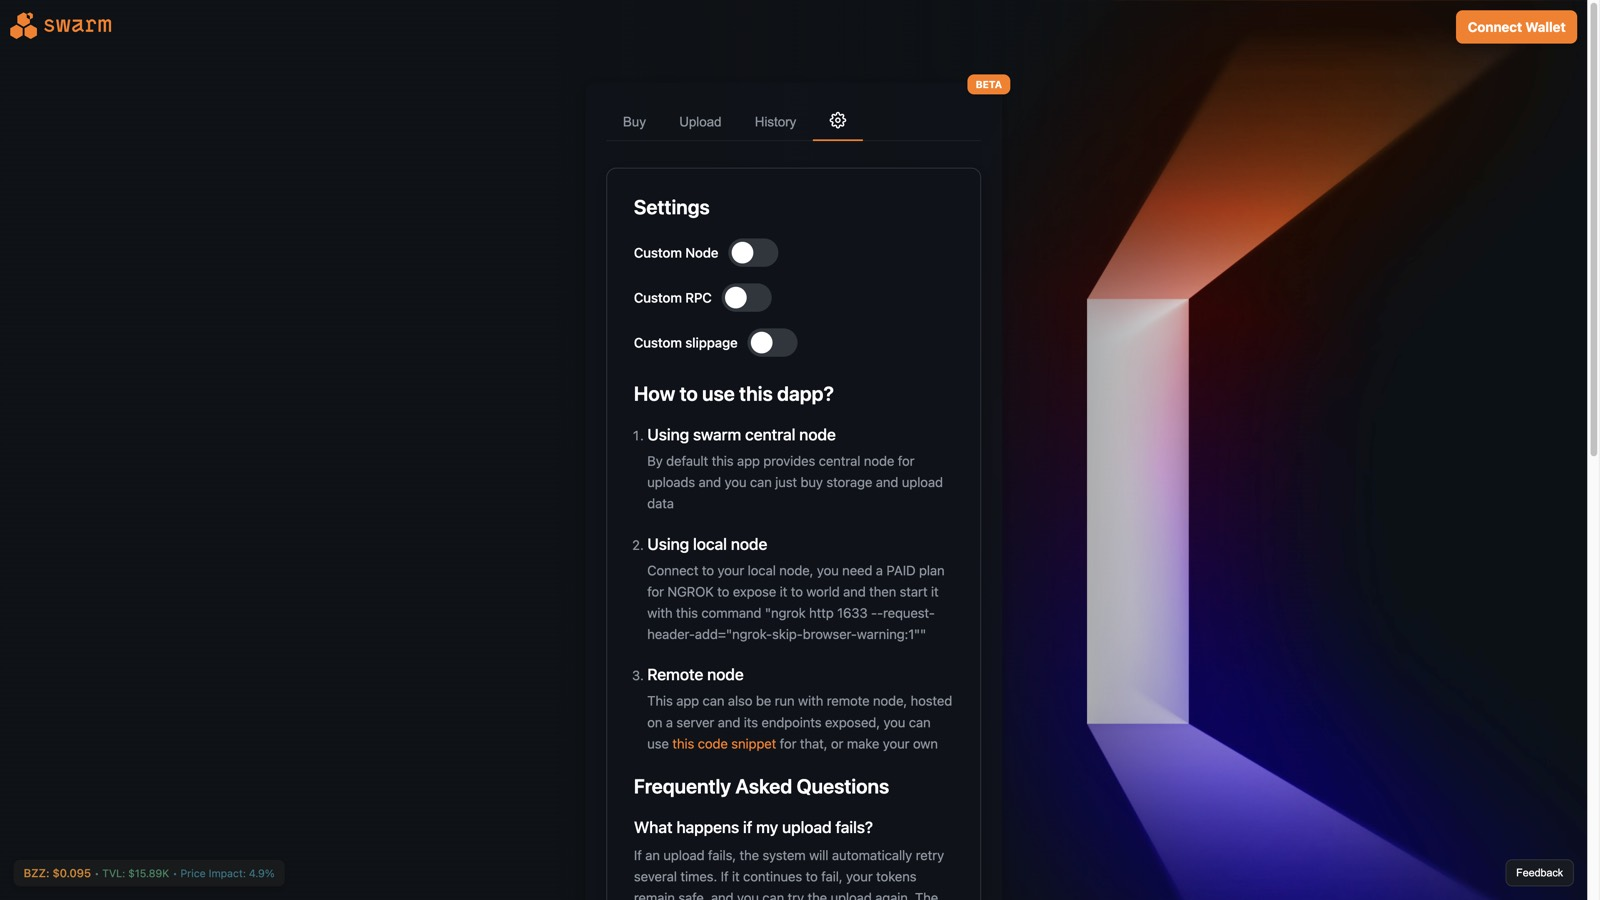
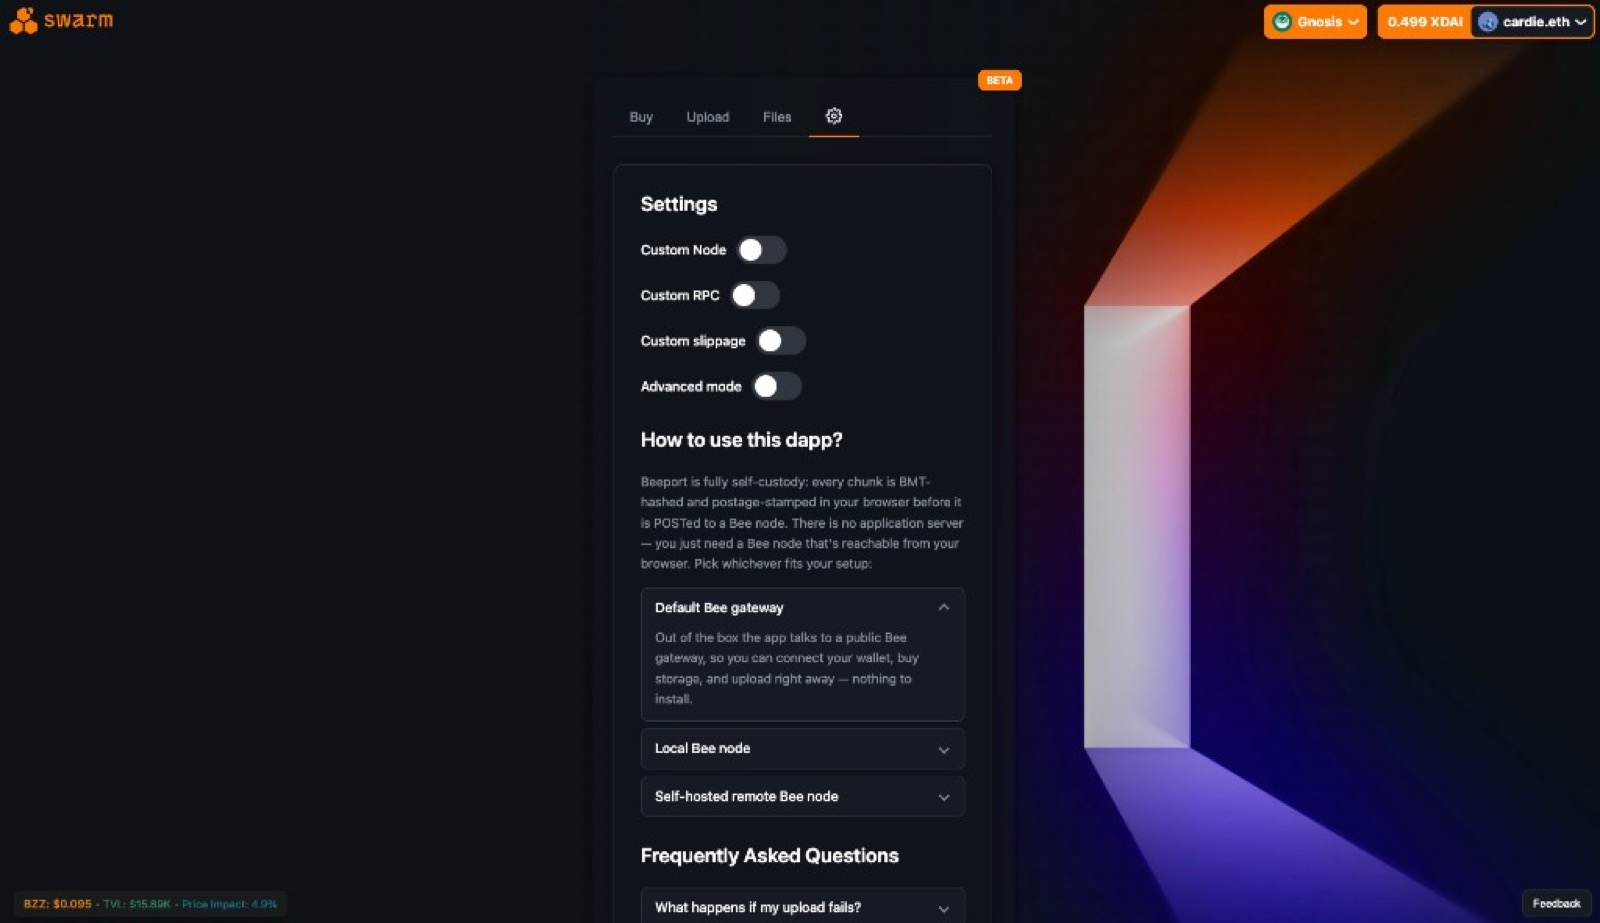
Replace the weak Beeport, King Trivia, and 1337 shots, and add cart and category pages for Lelo and Foreo.

diff --git a/index.html b/index.html
@@ -44,14 +44,14 @@
           <div class="thumbs">
             <button class="thumb" type="button" aria-pressed="true" aria-label="Buy" data-src="assets/beeport-buy.jpg" data-alt="Beeport buy form with chain, token, storage size, and duration" data-cap="Buy"><img src="assets/beeport-buy.jpg" alt="" /></button>
             <button class="thumb" type="button" aria-pressed="false" aria-label="Duration" data-src="assets/beeport-duration.jpg" data-alt="Beeport storage duration options" data-cap="Duration"><img src="assets/beeport-duration.jpg" alt="" /></button>
-            <button class="thumb" type="button" aria-pressed="false" aria-label="Upload" data-src="assets/beeport-upload.jpg" data-alt="Beeport upload tab, your storage" data-cap="Upload"><img src="assets/beeport-upload.jpg" alt="" /></button>
-            <button class="thumb" type="button" aria-pressed="false" aria-label="Settings" data-src="assets/beeport-settings.jpg" data-alt="Beeport settings and how to use the app" data-cap="Settings"><img src="assets/beeport-settings.jpg" alt="" /></button>
-            <button class="thumb" type="button" aria-pressed="false" aria-label="Node" data-src="assets/beeport-node.jpg" data-alt="Beeport custom Bee node URL" data-cap="Node"><img src="assets/beeport-node.jpg" alt="" /></button>
+            <button class="thumb" type="button" aria-pressed="false" aria-label="Storage" data-src="assets/beeport-storage.jpg" data-alt="Beeport self-custody storage with postage stamps and top up" data-cap="Storage"><img src="assets/beeport-storage.jpg" alt="" /></button>
+            <button class="thumb" type="button" aria-pressed="false" aria-label="Files" data-src="assets/beeport-files.jpg" data-alt="Beeport file list with type filters" data-cap="Files"><img src="assets/beeport-files.jpg" alt="" /></button>
+            <button class="thumb" type="button" aria-pressed="false" aria-label="Settings" data-src="assets/beeport-settings.jpg" data-alt="Beeport settings for a custom node, RPC, and Bee gateway" data-cap="Settings"><img src="assets/beeport-settings.jpg" alt="" /></button>
           </div>
         </div>
         <div class="copy">
           <h1>Beeport</h1>
-          <p>A site for buying Swarm storage and uploading files or a website, without running a node. It has a buy form with chain, size, and duration, an upload list, upload history, and a setting for your own Bee node.</p>
+          <p>A site for buying Swarm storage and uploading files. It has a buy form with chain, size, and duration, postage stamps you upload against, a file list, and settings for the Bee gateway, a custom node, and RPC.</p>
           <ul class="facts">
             <li>Next.js</li><li>React</li><li>TypeScript</li><li>RainbowKit</li><li>viem</li>
           </ul>
@@ -93,26 +93,27 @@
         <div class="gallery" data-switcher>
           <figure class="stage">
             <button type="button" data-lightbox aria-label="Enlarge screenshot">
-              <img src="assets/1337-assets.jpg" alt="1337 Wallet assets, chain, and RPC" />
+              <img src="assets/1337-store-2.jpg" alt="1337 Wallet assets screen" />
             </button>
             <figcaption>Assets</figcaption>
           </figure>
           <div class="thumbs">
-            <button class="thumb" type="button" aria-pressed="true" aria-label="Assets" data-src="assets/1337-assets.jpg" data-alt="1337 Wallet assets, chain, and RPC" data-cap="Assets"><img src="assets/1337-assets.jpg" alt="" /></button>
-            <button class="thumb" type="button" aria-pressed="false" aria-label="Confirm" data-src="assets/1337-confirm.jpg" data-alt="1337 confirm screen with a decoded call and a local simulation" data-cap="Confirm"><img src="assets/1337-confirm.jpg" alt="" /></button>
-            <button class="thumb" type="button" aria-pressed="false" aria-label="Swap" data-src="assets/1337-swap.jpg" data-alt="1337 swap screen" data-cap="Swap"><img src="assets/1337-swap.jpg" alt="" /></button>
-            <button class="thumb" type="button" aria-pressed="false" aria-label="History" data-src="assets/1337-history.jpg" data-alt="1337 transaction history" data-cap="History"><img src="assets/1337-history.jpg" alt="" /></button>
-            <button class="thumb" type="button" aria-pressed="false" aria-label="ENS" data-src="assets/1337-ens.jpg" data-alt="1337 ENS screen" data-cap="ENS"><img src="assets/1337-ens.jpg" alt="" /></button>
+            <button class="thumb" type="button" aria-pressed="true" aria-label="Assets" data-src="assets/1337-store-2.jpg" data-alt="1337 Wallet assets screen" data-cap="Assets"><img src="assets/1337-store-2.jpg" alt="" /></button>
+            <button class="thumb" type="button" aria-pressed="false" aria-label="Confirm" data-src="assets/1337-store-3.jpg" data-alt="1337 confirm screen with a decoded call and a local simulation" data-cap="Confirm"><img src="assets/1337-store-3.jpg" alt="" /></button>
+            <button class="thumb" type="button" aria-pressed="false" aria-label="RPC" data-src="assets/1337-store-4.jpg" data-alt="1337 custom RPC screen" data-cap="RPC"><img src="assets/1337-store-4.jpg" alt="" /></button>
+            <button class="thumb" type="button" aria-pressed="false" aria-label="Approvals" data-src="assets/1337-store-5.jpg" data-alt="1337 token approvals" data-cap="Approvals"><img src="assets/1337-store-5.jpg" alt="" /></button>
+            <button class="thumb" type="button" aria-pressed="false" aria-label="Swap" data-src="assets/1337-store-6.jpg" data-alt="1337 swap screen" data-cap="Swap"><img src="assets/1337-store-6.jpg" alt="" /></button>
           </div>
         </div>
         <div class="copy">
           <h1>1337 Wallet</h1>
-          <p>An open-source EVM wallet for Chrome. It has assets, a confirm screen with the decoded call and a local simulation, swaps, history, and ENS. Keys stay on the machine. There is no server.</p>
+          <p>An open-source EVM wallet for Chrome. It has assets, a confirm screen with the decoded call and a local simulation, a custom RPC, token approvals, and swaps. Keys stay on the machine. There is no server.</p>
           <ul class="facts">
             <li>TypeScript</li><li>React</li><li>viem</li><li>Webpack</li><li>LavaMoat</li><li>Next.js</li><li>Tailwind</li>
           </ul>
           <p class="links">
             <a href="https://1337wallet.io/">1337wallet.io</a>
+            <a href="https://chromewebstore.google.com/detail/1337-wallet/ggdidobiifdhehiigbcjiddeeadklmhl">Chrome Web Store</a>
             <a href="https://github.com/0xCardiE/1337-wallet">GitHub</a>
           </p>
         </div>
@@ -191,11 +192,13 @@
             <button class="thumb" type="button" aria-pressed="false" aria-label="Couples" data-src="assets/lelo-couples.jpg" data-alt="Lelo couples category with subcategories" data-cap="Couples"><img src="assets/lelo-couples.jpg" alt="" /></button>
             <button class="thumb" type="button" aria-pressed="false" aria-label="Product" data-src="assets/lelo-product.jpg" data-alt="Lelo product page with price and add to cart" data-cap="Product"><img src="assets/lelo-product.jpg" alt="" /></button>
             <button class="thumb" type="button" aria-pressed="false" aria-label="Cart" data-src="assets/lelo-cart.jpg" data-alt="Lelo cart after adding a product" data-cap="Cart"><img src="assets/lelo-cart.jpg" alt="" /></button>
+            <button class="thumb" type="button" aria-pressed="false" aria-label="Bundles" data-src="assets/lelo-bundles.jpg" data-alt="Lelo gift sets with bundle prices" data-cap="Bundles"><img src="assets/lelo-bundles.jpg" alt="" /></button>
+            <button class="thumb" type="button" aria-pressed="false" aria-label="Languages" data-src="assets/lelo-language.jpg" data-alt="Lelo language switcher" data-cap="Languages"><img src="assets/lelo-language.jpg" alt="" /></button>
           </div>
         </div>
         <div class="copy">
           <h1>Lelo</h1>
-          <p>An online store. It has a catalog with filters, category pages, a product page, and a cart. The storefront is React on JSON:API and GraphQL, with a Drupal theme in Twig and SCSS.</p>
+          <p>An online store. It has a catalog with filters, category pages, a product page, bundles, a cart, and a language switcher. The storefront is React on JSON:API and GraphQL, with a Drupal theme in Twig and SCSS.</p>
           <ul class="facts">
             <li>PHP</li><li>Drupal</li><li>Symfony</li><li>React</li><li>Twig</li><li>SCSS</li><li>JSON:API</li><li>GraphQL</li>
           </ul>
@@ -203,6 +206,7 @@
             <a href="https://www.lelo.com/">lelo.com</a>
             <a href="https://www.lelo.com/bestsellers">Bestsellers</a>
             <a href="https://www.lelo.com/sex-toys-for-couples">Couples</a>
+            <a href="https://www.lelo.com/pleasure-sets">Bundles</a>
           </p>
         </div>
       </article>
@@ -221,11 +225,13 @@
             <button class="thumb" type="button" aria-pressed="false" aria-label="Product" data-src="assets/foreo-buy.jpg" data-alt="Foreo product page with options, price, and shipping country" data-cap="Product"><img src="assets/foreo-buy.jpg" alt="" /></button>
             <button class="thumb" type="button" aria-pressed="false" aria-label="Oral care" data-src="assets/foreo-oral.jpg" data-alt="Foreo oral care category" data-cap="Oral care"><img src="assets/foreo-oral.jpg" alt="" /></button>
             <button class="thumb" type="button" aria-pressed="false" aria-label="Device" data-src="assets/foreo-hero.jpg" data-alt="Foreo FAQ 202 device page" data-cap="Device"><img src="assets/foreo-hero.jpg" alt="" /></button>
+            <button class="thumb" type="button" aria-pressed="false" aria-label="Skincare" data-src="assets/foreo-skincare.jpg" data-alt="Foreo skincare products with prices and add buttons" data-cap="Skincare"><img src="assets/foreo-skincare.jpg" alt="" /></button>
+            <button class="thumb" type="button" aria-pressed="false" aria-label="Cart" data-src="assets/foreo-cart.jpg" data-alt="Foreo cart with products, shipping, and checkout" data-cap="Cart"><img src="assets/foreo-cart.jpg" alt="" /></button>
           </div>
         </div>
         <div class="copy">
           <h1>Foreo</h1>
-          <p>An online store for devices and skincare, in more than one language and currency. It has a catalog, product options, oral care, and checkout. Payments include PayPal, Stripe, Alipay, iDEAL, Sofort, and Sezzle.</p>
+          <p>An online store for devices and skincare, in more than one language and currency. It has a catalog, product options, oral care, skincare, and a cart. Payments include PayPal, Stripe, Alipay, iDEAL, Sofort, and Sezzle.</p>
           <ul class="facts">
             <li>PHP</li><li>Drupal</li><li>Symfony</li><li>JavaScript</li><li>HTML</li><li>CSS</li><li>SCSS</li>
           </ul>
@@ -233,6 +239,7 @@
             <a href="https://www.foreo.com/">foreo.com</a>
             <a href="https://www.foreo.com/bestsellers">Bestsellers</a>
             <a href="https://www.foreo.com/shop/oral-care">Oral care</a>
+            <a href="https://www.foreo.com/shop/skincare">Skincare</a>
           </p>
         </div>
       </article>
@@ -248,14 +255,14 @@
           <div class="thumbs">
             <button class="thumb" type="button" aria-pressed="true" aria-label="Home" data-src="assets/king-home.jpg" data-alt="King Trivia homepage with pub quiz, Survey Slam, and music bingo" data-cap="Home"><img src="assets/king-home.jpg" alt="" /></button>
             <button class="thumb" type="button" aria-pressed="false" aria-label="Games" data-src="assets/king-games.jpg" data-alt="King Trivia game formats" data-cap="Games"><img src="assets/king-games.jpg" alt="" /></button>
-            <button class="thumb" type="button" aria-pressed="false" aria-label="Play" data-src="assets/king-play.jpg" data-alt="King Trivia player app, join a game with a code" data-cap="Play"><img src="assets/king-play.jpg" alt="" /></button>
+            <button class="thumb" type="button" aria-pressed="false" aria-label="Private events" data-src="assets/king-private.jpg" data-alt="King Trivia private events booking" data-cap="Private events"><img src="assets/king-private.jpg" alt="" /></button>
             <button class="thumb" type="button" aria-pressed="false" aria-label="Venues" data-src="assets/king-sales.jpg" data-alt="King Trivia page for bars and restaurants" data-cap="Venues"><img src="assets/king-sales.jpg" alt="" /></button>
             <button class="thumb" type="button" aria-pressed="false" aria-label="Quizmaster" data-src="assets/king-quizmaster.jpg" data-alt="King Trivia quizmaster page" data-cap="Quizmaster"><img src="assets/king-quizmaster.jpg" alt="" /></button>
           </div>
         </div>
         <div class="copy">
           <h1>King Trivia</h1>
-          <p>A live trivia product. It has pub quiz, Survey Slam, and music bingo, a player app you join with a code, and pages for venues and quizmasters. Drupal, with a theme in SCSS and HTML, and payments.</p>
+          <p>A live trivia product. It has pub quiz, Survey Slam, and music bingo, a player app you join with a code, private events, and pages for venues and quizmasters. Drupal, with a theme in SCSS and HTML, and payments.</p>
           <ul class="facts">
             <li>Drupal</li><li>PHP</li><li>SCSS</li><li>HTML</li><li>MySQL</li>
           </ul>
